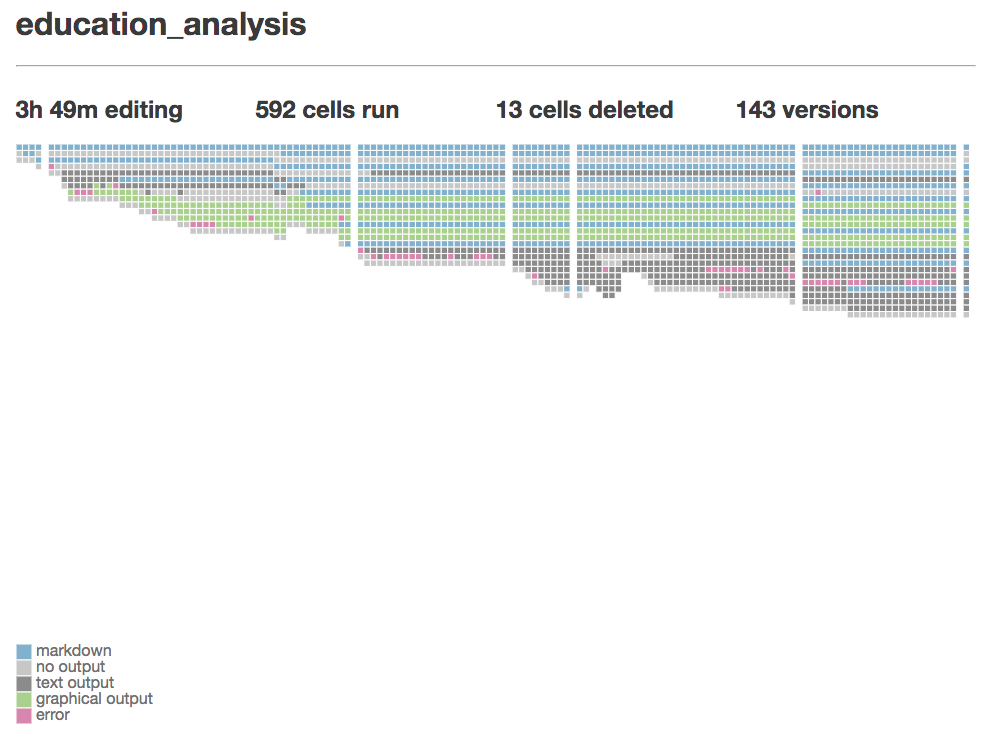
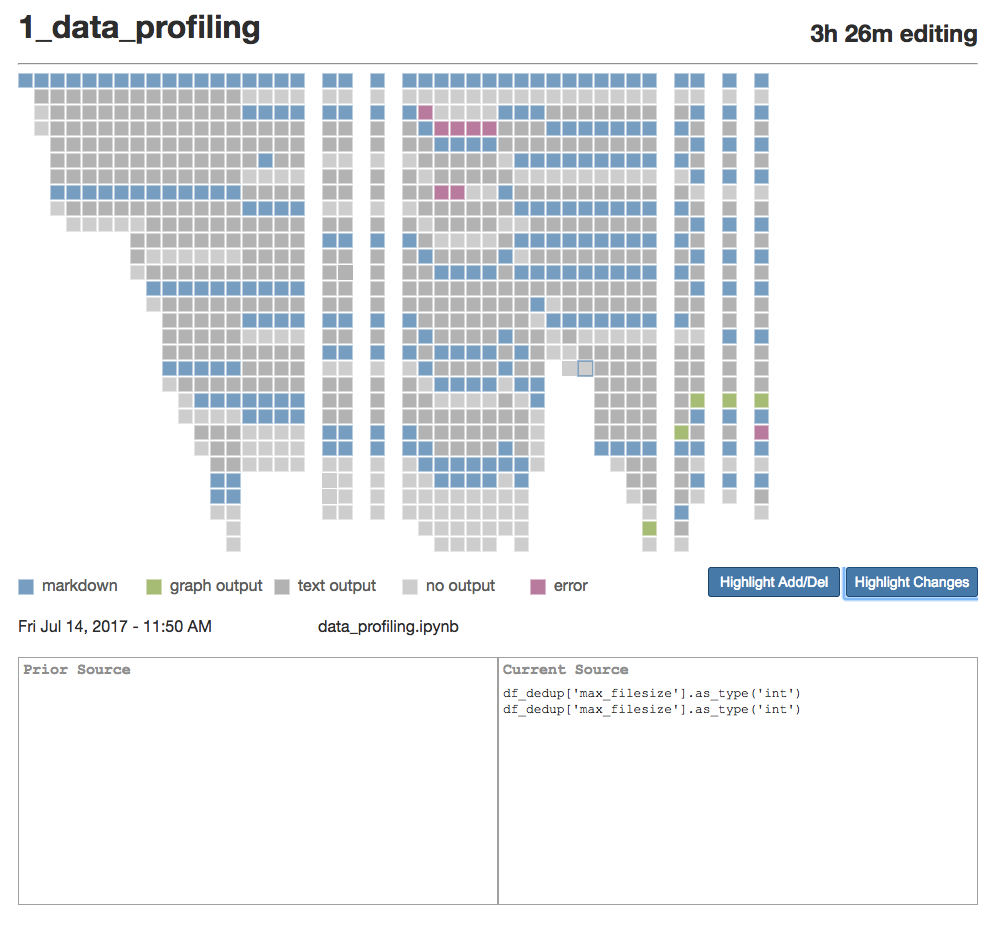
tweak visualization and prepare for v 0.2

diff --git a/nbcomet/nbcomet_viewer.py b/nbcomet/nbcomet_viewer.py
@@ -45,14 +45,17 @@ def get_action_data(data_dir, prior_names):
         start_time = n[1]
         end_time = n[2]
         
-        db = os.path.join(data_dir, hp, fn, fn + ".db")
-        d, r, t, actions = get_viewer_data(db, start_time, end_time)
-        
-        total_dels += d
-        total_runs += r    
-        total_time += t
-        for a in actions:
-            all_actions.append(list(a))
+        try:
+            db = os.path.join(data_dir, hp, fn, fn + ".db")
+            d, r, t, actions = get_viewer_data(db, start_time, end_time)
+            
+            total_dels += d
+            total_runs += r    
+            total_time += t
+            for a in actions:
+                all_actions.append(list(a))
+        except:
+            print("Had trouble accesing db")
         
     return total_dels, total_runs, total_time, all_actions
 
@@ -71,13 +74,16 @@ def get_saved_versions(prior_names, data_dir, all_actions):
                 and f[-6:] == '.ipynb']
             
             # filter this list to only those in the correct time frame
-            for v in versions_with_this_name:                
-                nb_time = datetime.datetime.strptime(v[-32:-6], 
-                    "%Y-%m-%d-%H-%M-%S-%f")
-                start_time = datetime.datetime.fromtimestamp(n[1]/1000) - datetime.timedelta(seconds=1)  
-                end_time = datetime.datetime.fromtimestamp(n[2]/1000)                
-                if nb_time <= end_time and nb_time >= start_time:
-                    versions.append(os.path.join(hp, fn, 'versions', v))
+            for v in versions_with_this_name:
+                try:                
+                    nb_time = datetime.datetime.strptime(v[-32:-6], 
+                        "%Y-%m-%d-%H-%M-%S-%f")
+                    start_time = datetime.datetime.fromtimestamp(n[1]/1000) - datetime.timedelta(seconds=1)  
+                    end_time = datetime.datetime.fromtimestamp(n[2]/1000)                
+                    if nb_time <= end_time and nb_time >= start_time:
+                        versions.append(os.path.join(hp, fn, 'versions', v))
+                except:
+                    print("Trouble checking time of file versions")
     return versions
 
 def get_activity_gaps(versions):
@@ -87,13 +93,16 @@ def get_activity_gaps(versions):
         # look for gaps of over 15 min in activity
         
         if i > 0:
-            current_nb_time = datetime.datetime.strptime(v[-32:-6],
-                "%Y-%m-%d-%H-%M-%S-%f")
-            past_nb_time = datetime.datetime.strptime(versions[i-1][-32:-6],
-                "%Y-%m-%d-%H-%M-%S-%f")
-            time_diff = current_nb_time - past_nb_time
-            if time_diff.total_seconds() >= 15 * 60:
-                gaps.append([i, time_diff.total_seconds()])
+            try:
+                current_nb_time = datetime.datetime.strptime(v[-32:-6],
+                    "%Y-%m-%d-%H-%M-%S-%f")
+                past_nb_time = datetime.datetime.strptime(versions[i-1][-32:-6],
+                    "%Y-%m-%d-%H-%M-%S-%f")
+                time_diff = current_nb_time - past_nb_time
+                if time_diff.total_seconds() >= 15 * 60:
+                    gaps.append([i, time_diff.total_seconds()])
+            except:
+                print("Trouble checking version time to determine gaps in activity")
     return gaps
 
 def get_cell_data(data_dir, versions, vi, all_actions, last_change):
@@ -101,6 +110,20 @@ def get_cell_data(data_dir, versions, vi, all_actions, last_change):
     
     nb_b_path = os.path.join(data_dir, versions[vi])
     nb_b = nbformat.read(nb_b_path, nbformat.NO_CONVERT)['cells']
+    
+    # get ids of next nb
+    next_cell_ids = []
+    if vi < len(versions) - 1:
+        nb_c_path = nb_b_path = os.path.join(data_dir, versions[vi + 1])
+        nb_c = nbformat.read(nb_c_path, nbformat.NO_CONVERT)['cells']
+            
+        for i, c in enumerate(nb_c):        
+            # get the cell id                 
+            try:
+                cell_id = c.metadata.comet_cell_id                    
+            except:
+                cell_id = i
+            next_cell_ids.append(cell_id)
               
     for i, c in enumerate(nb_b):        
         # get the cell id                 
@@ -129,7 +152,7 @@ def get_cell_data(data_dir, versions, vi, all_actions, last_change):
         if vi == 0 or cell_id not in last_change:
             new_source = c.source
             last_change[cell_id] = [vi, c.source]
-            last_source = 'false'
+            last_source = 'false'            
         # but if we have seen this cell before
         else:            
             if last_change[cell_id][1] == c.source:
@@ -138,9 +161,16 @@ def get_cell_data(data_dir, versions, vi, all_actions, last_change):
             else:
                 new_source = c.source
                 last_source = last_change[cell_id][0]
-                last_change[cell_id] = [vi, c.source]                    
-            
-        cell_data.append( [cell_id, cell_type, new_source, last_source] )
+                last_change[cell_id] = [vi, c.source]        
+        # get deleted metric
+        if vi == len(versions) - 1:
+            deleted = 'false'
+        elif cell_id in next_cell_ids:
+            deleted = 'false'
+        else:
+            deleted = 'true'
+                               
+        cell_data.append( [cell_id, cell_type, new_source, last_source, deleted] )
     
     return cell_data, last_change        
 
@@ -211,7 +241,8 @@ def get_viewer_html(data_dir, hashed_path, fname):
             .legendbar{
                 width: 100%;
                 height: 40px;
-                overflow: auto;               
+                overflow: auto;
+                margin-top: 10px;               
             }            
             .title{
                 float: left;
@@ -247,7 +278,7 @@ def get_viewer_html(data_dir, hashed_path, fname):
                 margin: 0px
             }
             button {
-            	background-color:#007dc1;
+            	background-color:steelblue;
             	-moz-border-radius:3px;
             	-webkit-border-radius:3px;
             	border-radius:3px;
@@ -258,7 +289,9 @@ def get_viewer_html(data_dir, hashed_path, fname):
             	color:#ffffff;
             	font-family:Arial;
             	font-size:14px;
-            	padding:6px 12px;
+            	padding:6px 6px;
+                margin-left: 6px;
+                width: 132px;
             	text-decoration:none;
             }
             button:hover {
@@ -302,14 +335,16 @@ def get_viewer_html(data_dir, hashed_path, fname):
             height = Math.max(height, cellSize * maxLength)\n
 
             var showingChanged = false
+            var showingAddChanged = false
 
             \n
             var legend_colors = [\n
                 ["markdown", "#7da7ca"],\n
-                ["no output", "silver"],\n
-                ["text output", "grey"],\n
-                ["error", "#ca7da7"],\n
-                ["graphical output", "#a7ca7d"]\n
+                ["graph output", "#a7ca7d"],\n
+                ["text output", "#bbbbbb"],\n
+                ["no output", "LightGray"],
+                ["error", "#ca7da7"]\n
+                \n
             ]\n
             \n
             var mainStats = d3.select("body")
@@ -351,10 +386,12 @@ def get_viewer_html(data_dir, hashed_path, fname):
                 .selectAll("rect")\n
                     .data(function(d){return d.cells; })\n
                     .enter().append("rect")\n
-                    .attr("width", cellSize)\n
-                    .attr("height", cellSize)\n
+                    .attr("width", cellSize - 1)\n
+                    .attr("height", cellSize - 1)\n
                     .attr('class', function(d){ return "c-" + d[0] })
                     .classed("changed", function(d){ return d[2] != 'false'})
+                    .classed("added", function(d){ return d[3] == 'false'})
+                    .classed("deleted", function(d){ return d[4] == 'true' })
                     .attr("x", function(d, i){\n
                         var numGaps = data.gaps.filter(function(x){return x[0]<=j}).length
                         return (j+numGaps)*cellSize; })\n
@@ -362,20 +399,35 @@ def get_viewer_html(data_dir, hashed_path, fname):
                     .attr("fill", function(d) {
                         type_colors = {
                             "markdown": "#7da7ca",
-                            "code": "silver",
+                            "code": "LightGray",
                             "error": "#ca7da7",
-                            "stream": "grey",
-                            "execute_result": "grey",
+                            "stream": "#bbbbbb",
+                            "execute_result": "#bbbbbb",
                             "display_data": "#a7ca7d"
                         }
                         return type_colors[d[1]]
                      })\n
                     .attr("stroke", "white")
-                    .on('click', function(d){
-                        d3.selectAll('rect')
-                            .attr('stroke','white')
+                    .attr("stroke-alignment", "inner")
+                    .on('click', function(d){                    
+                        d3.selectAll('rect.selected')
+                            .attr('stroke',function(){
+                                if(showingAddChanged){
+                                    if(d3.select(this).classed("added")){
+                                        return "SeaGreen"
+                                    }
+                                    else if(d3.select(this).classed("deleted")){
+                                        return 'Coral'
+                                    }
+                                    else{
+                                        return 'white'
+                                    }
+                                }
+                                
+                            })
                         d3.select(this)
-                            .attr('stroke', 'orangered')
+                            .attr('stroke', 'steelblue')
+                            .classed('selected', true)
                         
                         versionName.text(data.versions[j].name) 
                         versionTime.text(data.versions[j].time)
@@ -406,7 +458,7 @@ def get_viewer_html(data_dir, hashed_path, fname):
                 .attr('class', 'legendbar')
                 
             var legendsvg = legendbar.append("svg")\n
-                .attr("width", 800)\n
+                .attr("width", 680)\n
                 .attr("height", 40)\n
                 
             var legend = legendsvg.append('g')\n
@@ -447,6 +499,30 @@ def get_viewer_html(data_dir, hashed_path, fname):
                             .style('fill-opacity', 0.3)
                         d3.selectAll("rect.changed")
                             .style('fill-opacity', 1.0)
+                        d3.selectAll("rect.legend")
+                            .style('fill-opacity', 1.0)
+                    }
+                    
+                });
+                
+            var addDelButton = legendbar.append("button")
+                .text("Highlight Add/Del")
+                .on("click", function(d){  
+                    if(showingAddChanged){
+                        showingAddChanged = false
+                        addDelButton.text('Highlight Add/Del')
+                        d3.selectAll("rect.added")
+                            .attr('stroke', 'white')
+                        d3.selectAll("rect.deleted")
+                            .attr('stroke', 'white')
+                    }
+                    else{
+                        showingAddChanged = true
+                        addDelButton.text('Hide Add/Del')
+                        d3.selectAll("rect.added")
+                            .attr('stroke', 'SeaGreen')
+                        d3.selectAll("rect.deleted")
+                            .attr('stroke', 'Coral')
                     }
                     
                 });

diff --git a/setup.py b/setup.py
@@ -8,7 +8,7 @@ setup(
     name='nbcomet',
     version='0.2',
     description='Extension for tracking Jupyter Notebook history',
-    url = 'https://github.com/activityhistory/comet',
+    url = 'https://github.com/activityhistory/nbcomet',
     author='Adam Rule',
     author_email='acrule@ucsd.edu',
     license='BSD-3-Clause',

diff --git a/README.md b/README.md
@@ -6,16 +6,14 @@ consists of both a server side extension (.py) and a client-side nbextenion
 ## Installation
 ### 1. Install python package
 For your convenience, nbcomet's server and nbextenion are contained in a single
-python package that can be installed with pip. Simply run one of the following 
+python package that can be installed with pip or conda. Simply run one of the following 
 commands in your terminal:
 
  ```
  pip install nbcomet
- ```
  
- or if you prefer, you can download it with conda
+ # or install with conda
  
- ```
  conda install -c adamrule nbcomet
  ```
  
@@ -37,8 +35,8 @@ For more detailed assistance with loading Jupyter Notebook extensions, see the
 
 ### 2. Configure server and notebook extensions
 While nbcomet is now installed, you need to tell Jupyter to run it every time 
-you run a notebook. You can use the following three commands to install and 
-enable the notebook and server extensions:
+you run a notebook. You can use the following three commands to finish 
+installing and enabling the notebook and server extensions:
 
 ```
 jupyter nbextension install --py nbcomet
@@ -58,18 +56,25 @@ jupyter nbextension list
 By default, Comet with store its data in `~/.jupyter/nbcomet`; You can change
 this folder by editing the `notebook.json` configuration file in your
 `~/.jupyter/nbconfig` folder to include a line specifying your data directory.
-For example: `"Comet": {"data_directory": "/full/path/to/directory" }`.
+For example: `"Comet": {"data_directory": "/full/path/to/directory" },`.
 
 ## What Comet Tracks
 Comet tracks how your notebook changes over time. It does so by:
-1. tracking the occurrence of actions such as creating, deleting, moving, or executing cells
+1. tracking the occurrence of actions such as creating, deleting, moving, or 
+executing cells
 2. tracking how your notebook changes as a result of these actions
 
-Comet tracks this information in three ways:
-1. committing every notebook change to a local git repository
-2. periodically saving a full version of the notebook
-3. saving the name and time of every action to an sqlite database
+Comet tracks this information in two ways:
+1. periodically saving a full version of the notebook
+2. saving the name and time of every action performed in the notebook to an 
+sqlite database
 
-Comet is a research tool designed to help scientists in human-computer interaction better understand how people use Jupyter Notebooks. It is primarily a recording tool with limited support for visualizing or reviewing the recorded data.
+
+## Visualization
+Comet is a research tool designed to help scientists in human-computer 
+interaction better understand how people use Jupyter Notebooks. It is primarily 
+a recording tool with limited support for visualizing or reviewing the recorded 
+data. You can see a basic visualization of your notebook activity by selecting
+`Comet > See Comet Data ` in your Jupyter Notebook menu.
 
 ![Comet Extension HistoryFlow Visualization](imgs/historyflow.png)  
